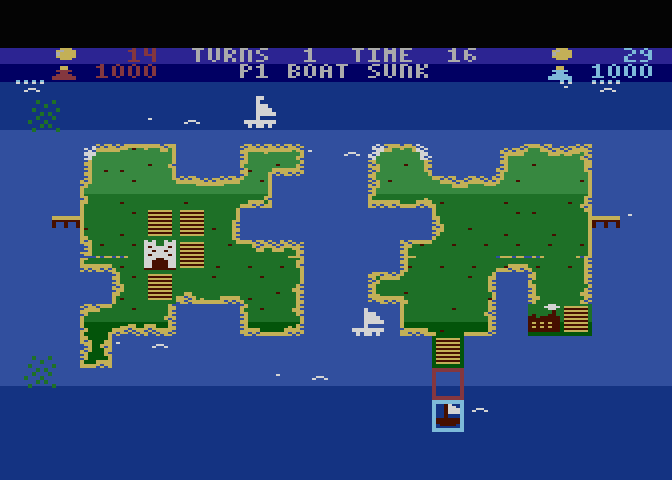
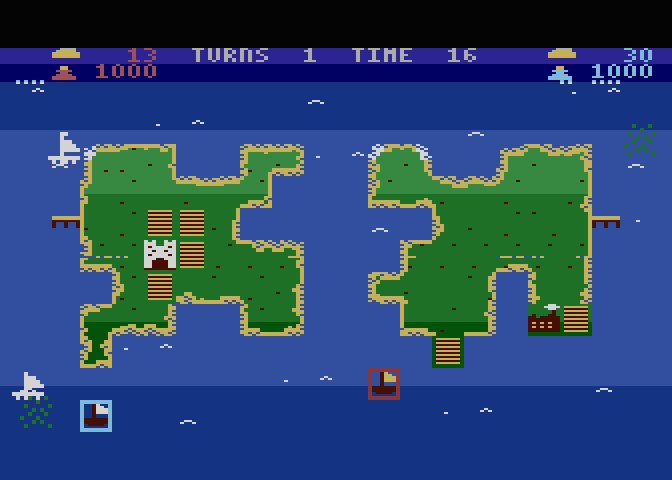
T-GFX-3: a gold bar instead of the coin
Claude-Session: https://claude.ai/code/session_01NMPWAVXJ2tYSHzLSNAaSfH

diff --git a/tools/mkstat.py b/tools/mkstat.py
@@ -10,7 +10,7 @@ clock by one scan line, so letters are 3 x 7 pixels in a 4 x 8 cell.
                  with bit 7 set the same pixels show PF3 (turquoise)
   codes $40-$7F  the same glyphs in red (10: PF1): a number printed
                  with TXCOL = $40 (player 1's colour)
-  codes $60-$65  icons, 2 characters each: the coin, player 1's person
+  codes $60-$65  icons, 2 characters each: the gold bar, player 1's person
                  (red body), player 2's person (11 body: print it with
                  bit 7 set for turquoise).  They replace red signs no
                  number uses.
@@ -77,17 +77,17 @@ G = {
 }
 
 # icons, two characters (8 x 8 pixels) each.  A pixel is about 1.6
-# times as wide as it is tall, so the coin is 5 pixels by 6.  The coin
-# sits at the top of line 1 and the person at the bottom of line 2, so
-# the two don't read as one shape.
-COIN = ["...YYY..",
-        "..YWYYY.",
-        "..WYYYY.",
-        "..WYYYY.",
-        "..YYYYY.",
-        "...YYY..",
-        "........",
-        "........"]
+# times as wide as it is tall.  The gold bar sits at the top of line 1
+# and the person at the bottom of line 2, so the two don't read as one
+# shape.
+BAR = ["...WWWW.",          # a gold bar seen from the front: the top
+       "..WYYYY.",          # face's edges catch the light
+       ".YYYYYYY",
+       ".YYYYYYY",
+       ".YYYYYYY",
+       "........",
+       "........",
+       "........"]
 PERSON = ["........",       # a board-game pawn: round head, collar,
           "...YY...",       # narrow waist, wide foot
           "...YY...",
@@ -96,7 +96,7 @@ PERSON = ["........",       # a board-game pawn: round head, collar,
           "..BBBB..",
           ".BBBBBB.",
           ".BBBBBB."]
-IC_COIN, IC_PER1, IC_PER2 = 0x60, 0x62, 0x64
+IC_BAR, IC_PER1, IC_PER2 = 0x60, 0x62, 0x64
 
 
 def screen_code(ch):
@@ -133,7 +133,7 @@ def build():
         c = screen_code(ch)
         font[c] = glyph(rows, 3)            # white (PF2 / PF3)
         font[c + 0x40] = glyph(rows, 2)     # red (PF1)
-    icons = ((IC_COIN, COIN, {"Y": 1, "W": 3}),
+    icons = ((IC_BAR, BAR, {"Y": 1, "W": 3}),
              (IC_PER1, PERSON, {"Y": 1, "B": 2}),
              (IC_PER2, PERSON, {"Y": 1, "B": 3}))
     for code, art, col in icons:
@@ -148,7 +148,7 @@ def main():
            ";  Status bar font STFONT (ANTIC mode 4, D54): white letters at their",
            ";  screen codes, the same in red at +$40, icons at $60-$65",
            "; " + "=" * 69, "",
-           "IC_COIN =  $%02X          ; coin, 2 characters" % IC_COIN,
+           "IC_BAR  =  $%02X          ; gold bar, 2 characters" % IC_BAR,
            "IC_PER1 =  $%02X          ; player 1's person (red)" % IC_PER1,
            "IC_PER2 =  $%02X          ; player 2's person (print with bit 7: turquoise)" % IC_PER2,
            "TX_RED  =  $40          ; TXCOL: red digits (player 1)",

diff --git a/tools/run6502.py b/tools/run6502.py
@@ -122,7 +122,7 @@ class Machine:
 
     def status(self, start=0, n=80):
         """The status lines (STATUS1, then STATUS2) as ASCII, colour bits
-        dropped: the coin shows as "$$", a person as "@@" (STFONT, D54)."""
+        dropped: the gold bar shows as "$$", a person as "@@" (STFONT, D54)."""
         out = ""
         for i in range(n):
             c = self.byte("STATUS1", start + i) & 0x7F

diff --git a/docs/DECISIONS.md b/docs/DECISIONS.md
@@ -59,4 +59,4 @@ change one, add a new entry that supersedes it; don't edit history.
 | D51 | 2026-10-30 | The map gets per-row shading and moving waves (T-GFX-1). Shading: each character row has its own sea (COLBK) and grass (PF0) colour, set by `DLI_ROW` with the font: the open sea is 2 luminance steps lighter round the islands (rows 3-18, one character row past the land so the band's edge doesn't line up with the coast) and stays `MAPPAL`'s blue in the top and bottom three rows (a darker band at the edges was dropped as too heavy), the grass 2 lighter in the north (rows 0-6) and 2 darker in the south (rows 15-21; band edges on odd rows, D52), from `SEADEL` / `GRNDEL`. `VD_SHADE` builds `ROWBK` / `ROWPF0` from `MAPPAL` with attract mode applied, and the deferred VBI reruns it only when `MAPPAL`, `COLRSH` or `DRKMSK` change. Waves: each wave tile has one crest, on 1 of every 9 open-sea squares (15 squares), and 1 in 18 (7 squares) get a sparkle tile instead (Rube found more too busy), two white dots that twinkle in turn. The 5 animated characters get 4 phases (the crest rolls right, breaks, then a frame of calm sea); `WAVE_ANI` (main loop, during play) copies the next phase into both map fonts every 16 frames, the second wave tile lagging 2 phases. Grass specks: 2 per square instead of 4, and each land square uses one of four speck layouts (`T_GRASS`-`T_GRASS4`: two specks, the same two in other quarters, one, none), picked by a hash of its position, so they no longer form a grid (Rube: "they look like measles"); the layouts reuse the same 2 speck characters. The frames (`WVDATA`, 160 bytes) fill the rest of the help font's block at `$4ED8`; the routines are in `shade.asm` in the second code block. | Rube's list after D50 (2026-10-30): colour per row and animation were the two items left from the mock-up. Per-row colour costs only two stores in a DLI that already runs; font-copy animation costs 80 bytes of copying every 16 frames and no extra characters. |
 | D52 | 2026-10-30 | Weather sprites redrawn (T-GFX-2). P2 stays double width and double line (8 pixels of 2 colour clocks, 2 scan lines each), so the gain comes from drawing, not resolution. Rain: a light grey cumulus with drops falling 2 lines a frame. Storm: a bigger dark grey cloud with a ragged base and rain slanting in the wind; once every 8 animation steps (1.6 s) a lightning frame draws a bolt under it and the whole cloud flashes white (`C_FLASH`, `W_BOLT`; `WANIM` now counts 0-7). Rain and storm clouds are drawn 16 lines tall, the cloud in the 8 lines above their 8-line box (`WTOP`, `WDRH`), so the rain falls on the square they damage; the box, its centre, spawning and damage are unchanged (`WHGT`, `WHALF`). Hurricane: a 2-armed spiral round an eye, 4 frames turning an eighth of a turn each, at full line resolution (it was each line drawn 4 times); its 16 × 32 box is unchanged. The display interrupts are split (`DLI_ROW` / `DLI_SQ`) so the fish and weather positions are set before a square row's first scan line: before, they took effect a few lines late and cut off the top of any shape that started at the top of a row (the old shapes partly hid it). To make that fit, `DLI_SQ` no longer sets the font, so the generator only starts a new font on an odd character row. Side effect: the taller clouds cover more map rows, so two weather objects share rows, and take turns frame by frame (D14), a little more often. | A tester found the weather sprites lacking character and repetitive, the hurricane "chonky" (2026-10-30). Drawing the clouds taller costs no game change; drawing them at their old 8 lines left no room for a cloud and its rain. |
 | D53 | 2026-10-30 | Weather sounds (T-GFX-2). A storm's lightning frame (D52) plays soft thunder, `SND_THNDR`: a noise crack at volume 6 then a low roll fading over about 1 s, priority 1. A hurricane roars quietly while it is out: `WTH_TIC` calls `SND_ROAR` every tic for each hurricane, which starts a 60-frame low noise swell at volume 2-3 (priority 0, the lowest, so any other effect can take its voice) only when no roar is playing; the roar runs on with a gap of a frame or two each second, and dies away within a second once the hurricane leaves. Both composed for Acadia (R-SND-4). | Rube asked for a soft thunder with the lightning and a quiet roar for hurricanes (2026-10-30). |
-| D54 | 2026-10-30 | The status bar gets its own look (T-GFX-3). Both lines move from ANTIC mode 2 in the ROM font to mode 4 in a new 3 × 7 font (`STFONT` at `$9800`, `tools/mkstat.py`), which gives the game its own lettering and four colours plus the background per character. The word GOLD becomes a gold coin and POP a two-colour person (a board-game pawn with a gold head; red body for player 1, turquoise for player 2, the cursor colours). Player 1's numbers are red, player 2's turquoise (`TXCOL`, `ST_DEC`; also the P1 / P2 numbers on the score pages), the rest white. A DLI per line gives line 1 a `$84` background and line 2 a darker `$80`, so the lines read as two rows; the blank lines above stay black. Mode 4 puts COLBK behind the text, so the bands run the full screen width like the map's sea. Icons are drawn for the 1.6 : 1 pixel (coin 5 × 6 pixels), coin at the top of line 1 and person at the bottom of line 2 so they don't merge. The title and setup screens keep the ROM font. | A tester suggested a custom font and colour in the status bar; Rube asked for a coin and a two-coloured person icon instead of GOLD and POP, and picked this option (B, colour text mode) over keeping mode 2 with P/M icons (A), 2026-10-30. |
+| D54 | 2026-10-30 | The status bar gets its own look (T-GFX-3). Both lines move from ANTIC mode 2 in the ROM font to mode 4 in a new 3 × 7 font (`STFONT` at `$9800`, `tools/mkstat.py`), which gives the game its own lettering and four colours plus the background per character. The word GOLD becomes a gold bar and POP a two-colour person (a board-game pawn with a gold head; red body for player 1, turquoise for player 2, the cursor colours). Player 1's numbers are red, player 2's turquoise (`TXCOL`, `ST_DEC`; also the P1 / P2 numbers on the score pages), the rest white. A DLI per line gives line 1 a `$84` background and line 2 a darker `$80`, so the lines read as two rows; the blank lines above stay black. Mode 4 puts COLBK behind the text, so the bands run the full screen width like the map's sea. Icons are drawn for the 1.6 : 1 pixel; the gold bar (a first coin read poorly at this size, Rube) sits at the top of line 1 and person at the bottom of line 2 so they don't merge. The title and setup screens keep the ROM font. | A tester suggested a custom font and colour in the status bar; Rube asked for a coin (then a gold bar) and a two-coloured person icon instead of GOLD and POP, and picked this option (B, colour text mode) over keeping mode 2 with P/M icons (A), 2026-10-30. |

diff --git a/docs/PLAN.md b/docs/PLAN.md
@@ -85,7 +85,7 @@ Status values: `todo`, `in progress (<who>)`, `review`, `done`,
 | T-REL-1 | Title screen, credits (no Mattel trademarks in a way that implies affiliation) | M6 | title screen and demo done (D46, D47); credits open |
 | T-GFX-1 | Map in ANTIC mode 4: 8 × 16 tiles, new art (D50) | M6 | done (colour per row and moving waves added, D51) |
 | T-GFX-2 | Weather sprites redrawn: rain and storm clouds with falling rain, storm lightning, a turning hurricane spiral (D52) | T-GFX-1 | done |
-| T-GFX-3 | Status bar in mode 4: own 3 × 7 font, coin and person icons, numbers in the players' colours, a background per line (D54) | T-GFX-1 | done |
+| T-GFX-3 | Status bar in mode 4: own 3 × 7 font, gold bar and person icons, numbers in the players' colours, a background per line (D54) | T-GFX-1 | done |
 | T-REL-2 | Test on MiSTer and real 800XL; PAL check | M6 | todo |
 | T-REL-3 | ATR + XEX release build, README play instructions | T-INFRA-4 | todo |
 

diff --git a/docs/ARCHITECTURE.md b/docs/ARCHITECTURE.md
@@ -293,7 +293,7 @@ missiles at 0 for the status bar. The deferred VBI resets
 `VDSLST` to `DLI_ST` each frame.
 
 **Status bar** (D54): two ANTIC mode 4 lines in `STFONT`, colours
-from the OS shadows (`ST_COLS`: PF0 gold `$2C` for the coin and the
+from the OS shadows (`ST_COLS`: PF0 gold `$2C` for the gold bar and the
 heads, PF1 red `$48` for player 1, PF2 white `$0C` for text, PF3
 turquoise `$AC` for player 2 through inverse characters; COLBK black
 for the blank lines above). A DLI on the last blank line (`DLI_ST`)
